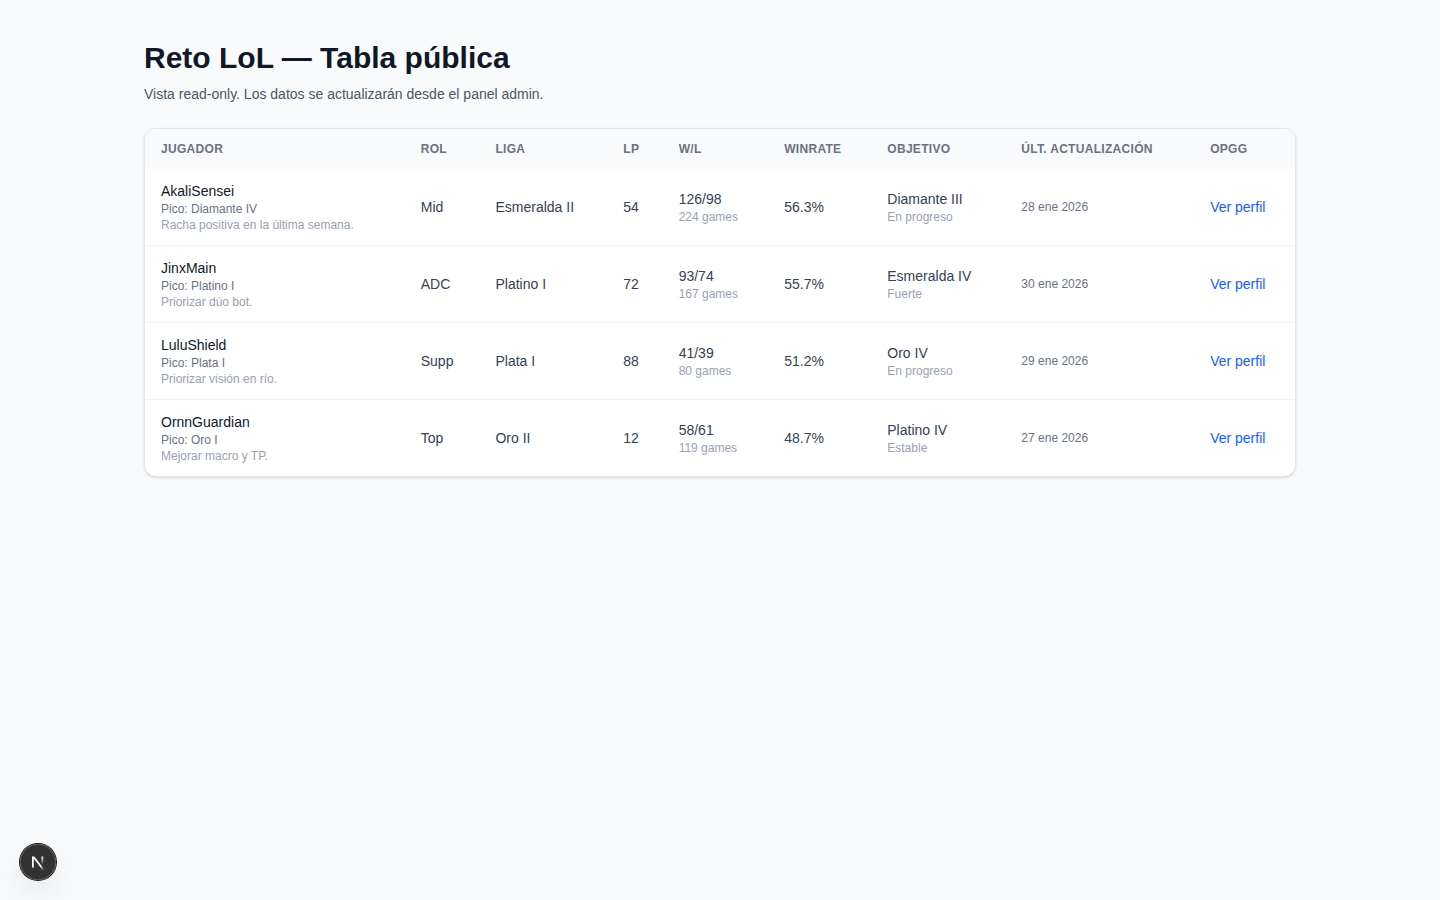
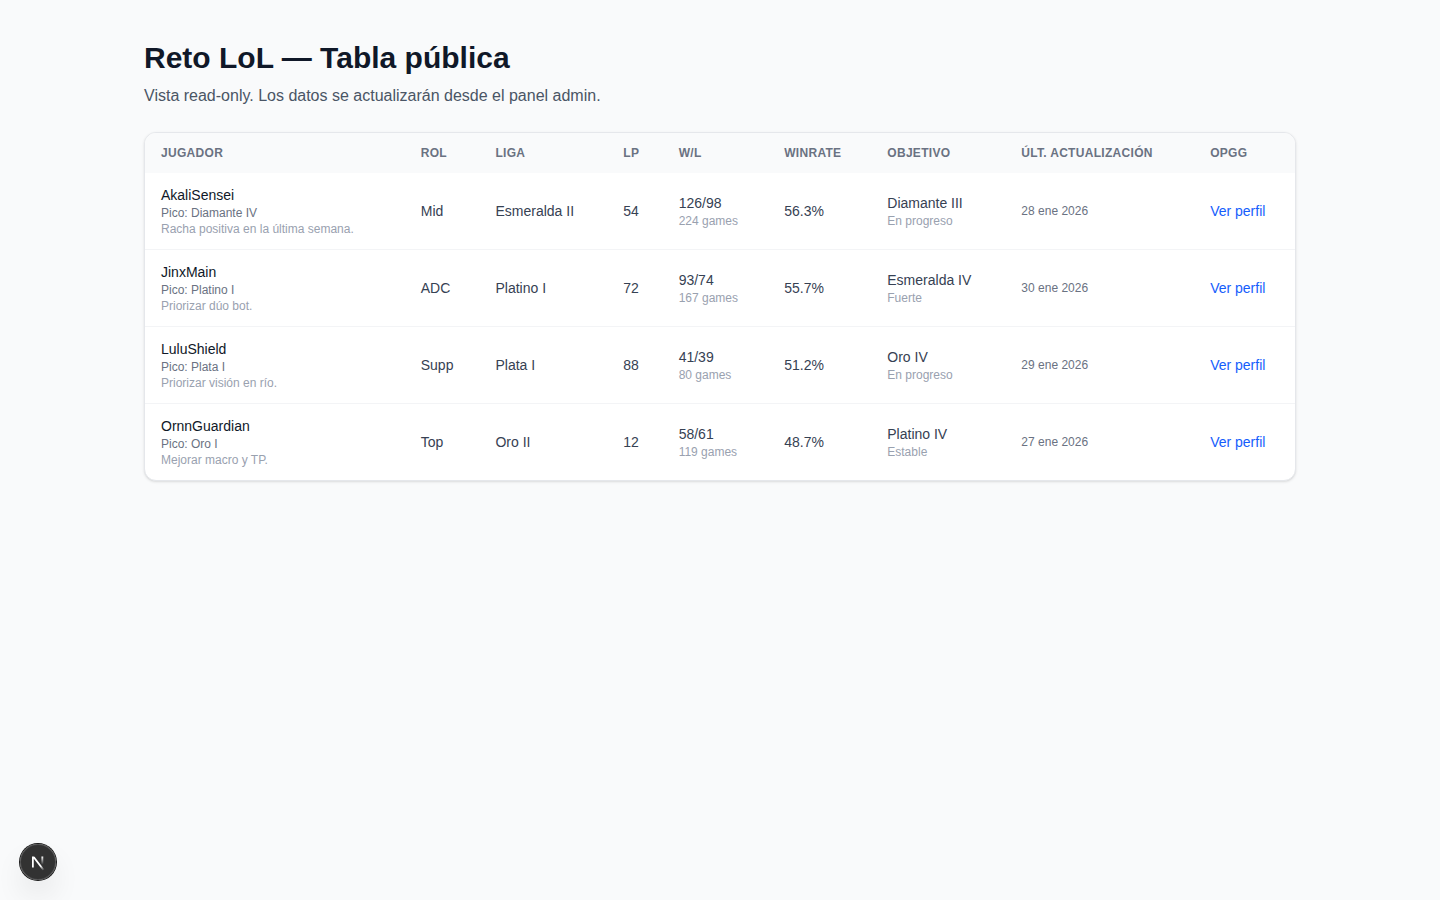
feat(ui): add mobile cards for players

diff --git a/components/players/players-table.tsx b/components/players/players-table.tsx
@@ -19,15 +19,104 @@ export function PlayersTable(props: { players: Player[] }) {
   return (
     <section className="space-y-6">
       <header className="space-y-2">
-        <h1 className="text-3xl font-semibold text-gray-900">
+        <h1 className="text-2xl font-semibold text-gray-900 sm:text-3xl">
           Reto LoL — Tabla pública
         </h1>
-        <p className="text-sm text-gray-600">
+        <p className="text-sm text-gray-600 sm:text-base">
           Vista read-only. Los datos se actualizarán desde el panel admin.
         </p>
       </header>
 
-      <div className="overflow-x-auto rounded-xl border border-gray-200 bg-white shadow-sm">
+      <div className="grid gap-4 md:hidden">
+        {sortedPlayers.map((player) => {
+          const games = getGames({ wins: player.wins, losses: player.losses });
+          const winrate = getWinrate({
+            wins: player.wins,
+            losses: player.losses,
+          });
+
+          return (
+            <article
+              key={player.id}
+              className="rounded-xl border border-gray-200 bg-white p-4 shadow-sm"
+            >
+              <div className="flex items-start justify-between gap-4">
+                <div className="space-y-1">
+                  <div className="text-base font-semibold text-gray-900">
+                    {player.name}
+                  </div>
+                  <div className="text-xs text-gray-500">
+                    Pico: {player.peakRank}
+                  </div>
+                  {player.notes ? (
+                    <div className="text-xs text-gray-400">{player.notes}</div>
+                  ) : null}
+                </div>
+                <div className="text-right text-xs text-gray-600">
+                  <div className="font-semibold text-gray-900">
+                    {player.tier} {player.division}
+                  </div>
+                  <div>{player.role}</div>
+                </div>
+              </div>
+
+              <div className="mt-3 grid grid-cols-2 gap-3 text-xs text-gray-600 sm:grid-cols-3">
+                <div>
+                  <div className="text-[10px] uppercase text-gray-400">LP</div>
+                  <div className="font-medium text-gray-900">{player.lp}</div>
+                </div>
+                <div>
+                  <div className="text-[10px] uppercase text-gray-400">W/L</div>
+                  <div className="font-medium text-gray-900">
+                    {player.wins}/{player.losses}
+                  </div>
+                  <div className="text-[10px] text-gray-400">{games} games</div>
+                </div>
+                <div>
+                  <div className="text-[10px] uppercase text-gray-400">WR</div>
+                  <div className="font-medium text-gray-900">
+                    {formatPercent(winrate)}
+                  </div>
+                </div>
+                <div>
+                  <div className="text-[10px] uppercase text-gray-400">
+                    Objetivo
+                  </div>
+                  <div className="font-medium text-gray-900">
+                    {player.objective}
+                  </div>
+                  <div className="text-[10px] text-gray-400">
+                    {player.monthCheckpoint}
+                  </div>
+                </div>
+                <div>
+                  <div className="text-[10px] uppercase text-gray-400">
+                    Actualizado
+                  </div>
+                  <div className="font-medium text-gray-900">
+                    {dateFormatter.format(new Date(player.lastUpdated))}
+                  </div>
+                </div>
+                <div>
+                  <div className="text-[10px] uppercase text-gray-400">
+                    OPGG
+                  </div>
+                  <a
+                    className="font-medium text-blue-600 hover:text-blue-800"
+                    href={player.opggUrl}
+                    target="_blank"
+                    rel="noreferrer"
+                  >
+                    Ver perfil
+                  </a>
+                </div>
+              </div>
+            </article>
+          );
+        })}
+      </div>
+
+      <div className="hidden overflow-x-auto rounded-xl border border-gray-200 bg-white shadow-sm md:block">
         <table className="min-w-full text-left text-sm text-gray-700">
           <thead className="bg-gray-50 text-xs uppercase tracking-wide text-gray-500">
             <tr>

diff --git a/docs/DEV.md b/docs/DEV.md
@@ -45,5 +45,12 @@ Proyecto Next.js (App Router) para el reto LoL. La ruta inicial de verificación
 - Ejecutar: `node scripts/capture-screens.mjs`
 - Genera: `docs/screenshots/public-table-desktop.png` y `docs/screenshots/public-table-mobile.png`
 
+## Workflow frontend
+1. Implementar UI (desktop-first o mobile-first según caso).
+2. Verificar **responsividad** en mobile y desktop (breakpoints y overflow).
+3. Generar capturas Playwright (desktop + mobile).
+4. Revisar que **toda la información clave** sea visible en mobile sin perder columnas críticas.
+5. Adjuntar capturas en la PR (raw URLs) y describir el flujo de uso.
+
 ## Notas
 - Documentar cualquier cambio de estructura o nuevas responsabilidades aquí.
